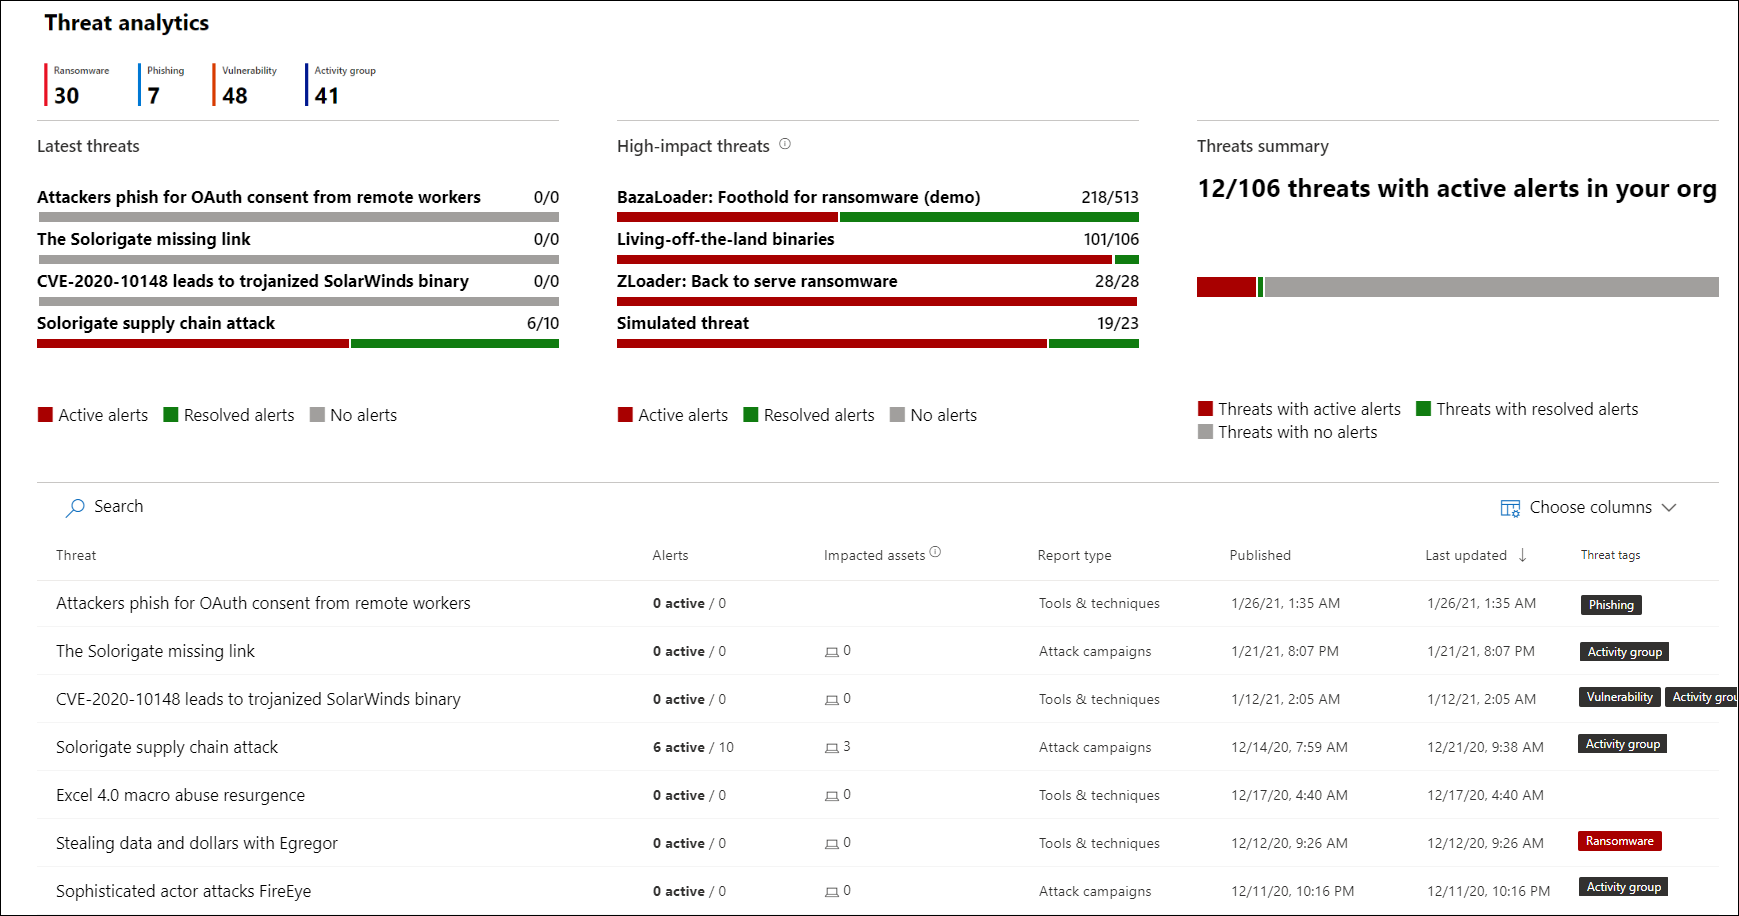
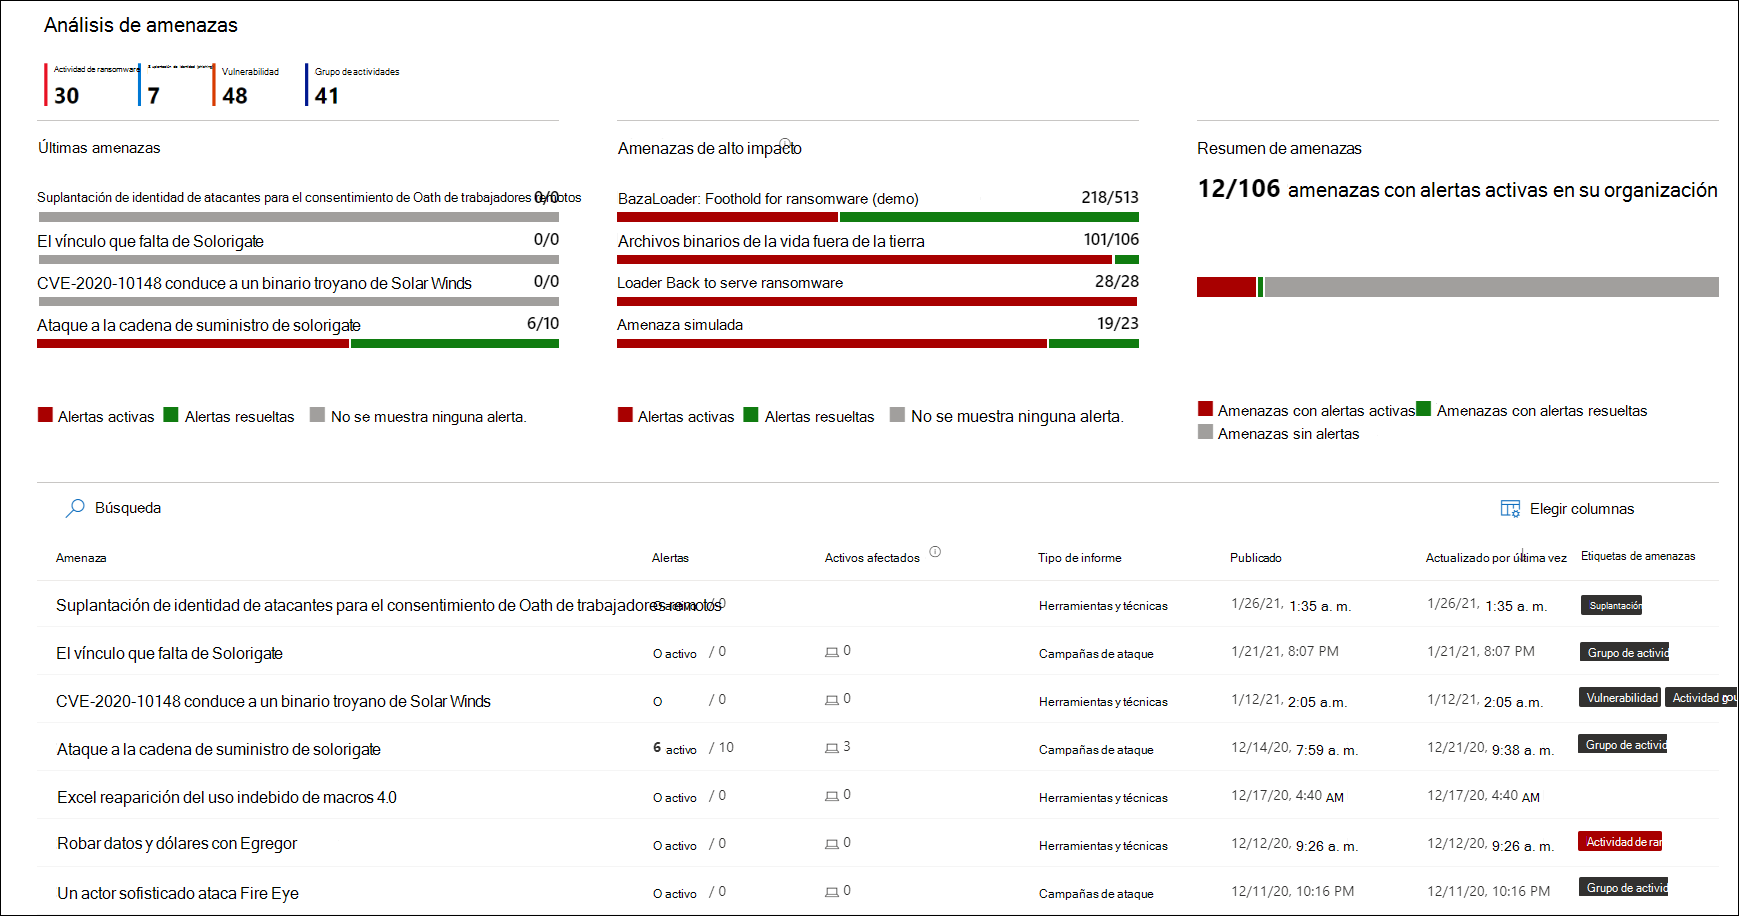
commit translated contents

diff --git a/microsoft-365/compliance/apply-sensitivity-label-automatically.md b/microsoft-365/compliance/apply-sensitivity-label-automatically.md
@@ -16,12 +16,12 @@ search.appverid:
 - MOE150
 - MET150
 description: Al crear una etiqueta de confidencialidad, puede asignar automáticamente una etiqueta a archivos o correos electrónicos, o bien puede pedir a los usuarios que seleccionen la etiqueta recomendada.
-ms.openlocfilehash: 5fdb3bd963468fb7fdb4de307df8ccda0c69bbb4
-ms.sourcegitcommit: 5866e45a6a4e90c661e8f90c91550a9872b68e03
+ms.openlocfilehash: 6b74c36707b9fe1fdbe00eb7058554b54ec95755
+ms.sourcegitcommit: 6749455c52b0f98a92f6fffbc2bb86caf3538bd8
 ms.translationtype: HT
 ms.contentlocale: es-ES
-ms.lasthandoff: 06/28/2021
-ms.locfileid: "53169621"
+ms.lasthandoff: 06/29/2021
+ms.locfileid: "53194774"
 ---
 # <a name="apply-a-sensitivity-label-to-content-automatically"></a>Aplicar automáticamente una etiqueta de confidencialidad al contenido
 
@@ -142,7 +142,7 @@ Para obtener más información sobre estas opciones, consulte las siguientes ins
 Además, de la misma manera que ocurre con la configuración de directiva DLP, puede elegir si una condición debe detectar todos los tipos de información confidencial o solo uno de ellos. Y para hacer que las condiciones sean más flexibles o complejas, puede agregar [grupos y usar operadores lógicos entre los grupos](data-loss-prevention-policies.md#grouping-and-logical-operators).
 
 > [!NOTE]
-> Las directivas de etiquetado automático basadas en tipos personalizados de información confidencial solo se aplican al contenido recién creado o modificado en OneDrive y SharePoint. 
+> Las directivas de etiquetado automático que se basan en tipos personalizados de información confidencial solo se aplican al contenido recién creado o modificado en OneDrive y SharePoint, no al contenido existente. 
 
 ### <a name="configuring-trainable-classifiers-for-a-label"></a>Configurar clasificadores capacitados para una etiqueta
 
@@ -219,7 +219,7 @@ Asegúrese de tener en cuenta los requisitos previos antes de configurar las dir
     - En el momento en el que se ejecuta la directiva de etiquetado automático, el archivo no debe estar abierto por otro proceso o usuario. Un archivo desprotegido para edición entra en esta categoría.
 
 - Si tiene previsto usar [tipos de información confidencial personalizados](sensitive-information-type-learn-about.md) en lugar de los tipos de confidencialidad integrados: 
-    - Los tipos de información de confidencialidad personalizados solo se aplican al contenido que se agrega o modifica en SharePoint o OneDrive después de aplicar los tipos de información de confidencialidad personalizados. 
+    - Los tipos de información de confidencialidad personalizados solo se aplican al contenido que se agrega o modifica en SharePoint o OneDrive después de aplicar los tipos de información de confidencialidad personalizados.
     - Para probar los nuevos tipos de información confidencial, créelos antes de crear su directiva de etiquetado automático y, después, cree nuevos documentos con datos de ejemplo para probarlos.
 
 - [Crear y publicar](create-sensitivity-labels.md) una o más etiquetas de confidencialidad (para al menos un usuario) que pueda seleccionar para las directivas de etiquetado automático. Para estas etiquetas:
